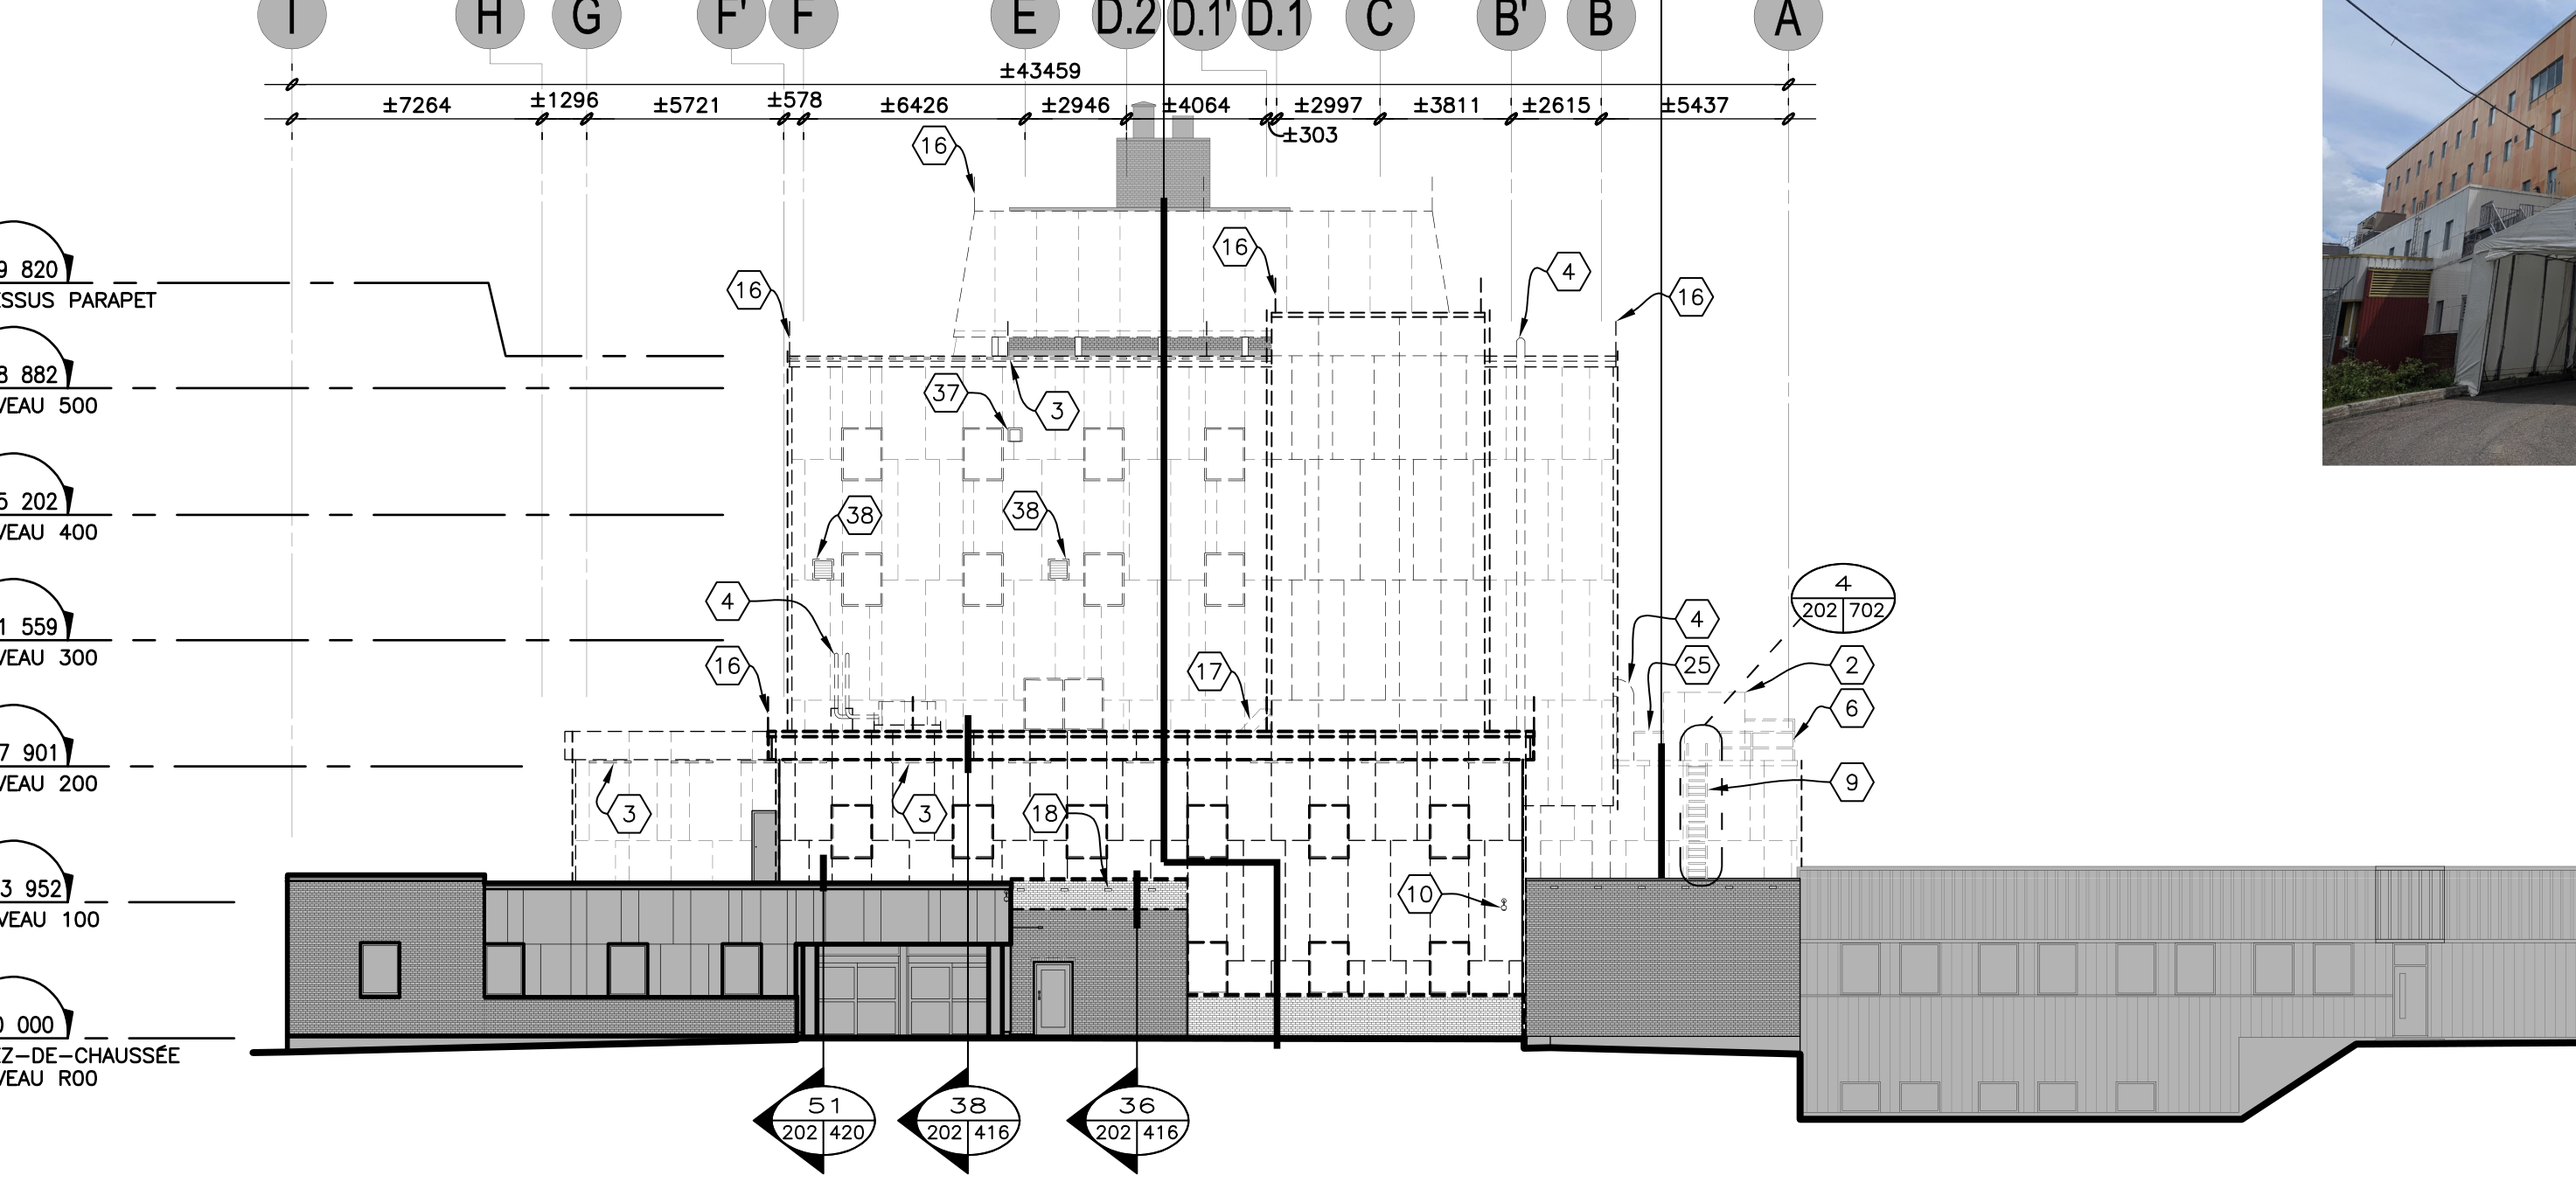
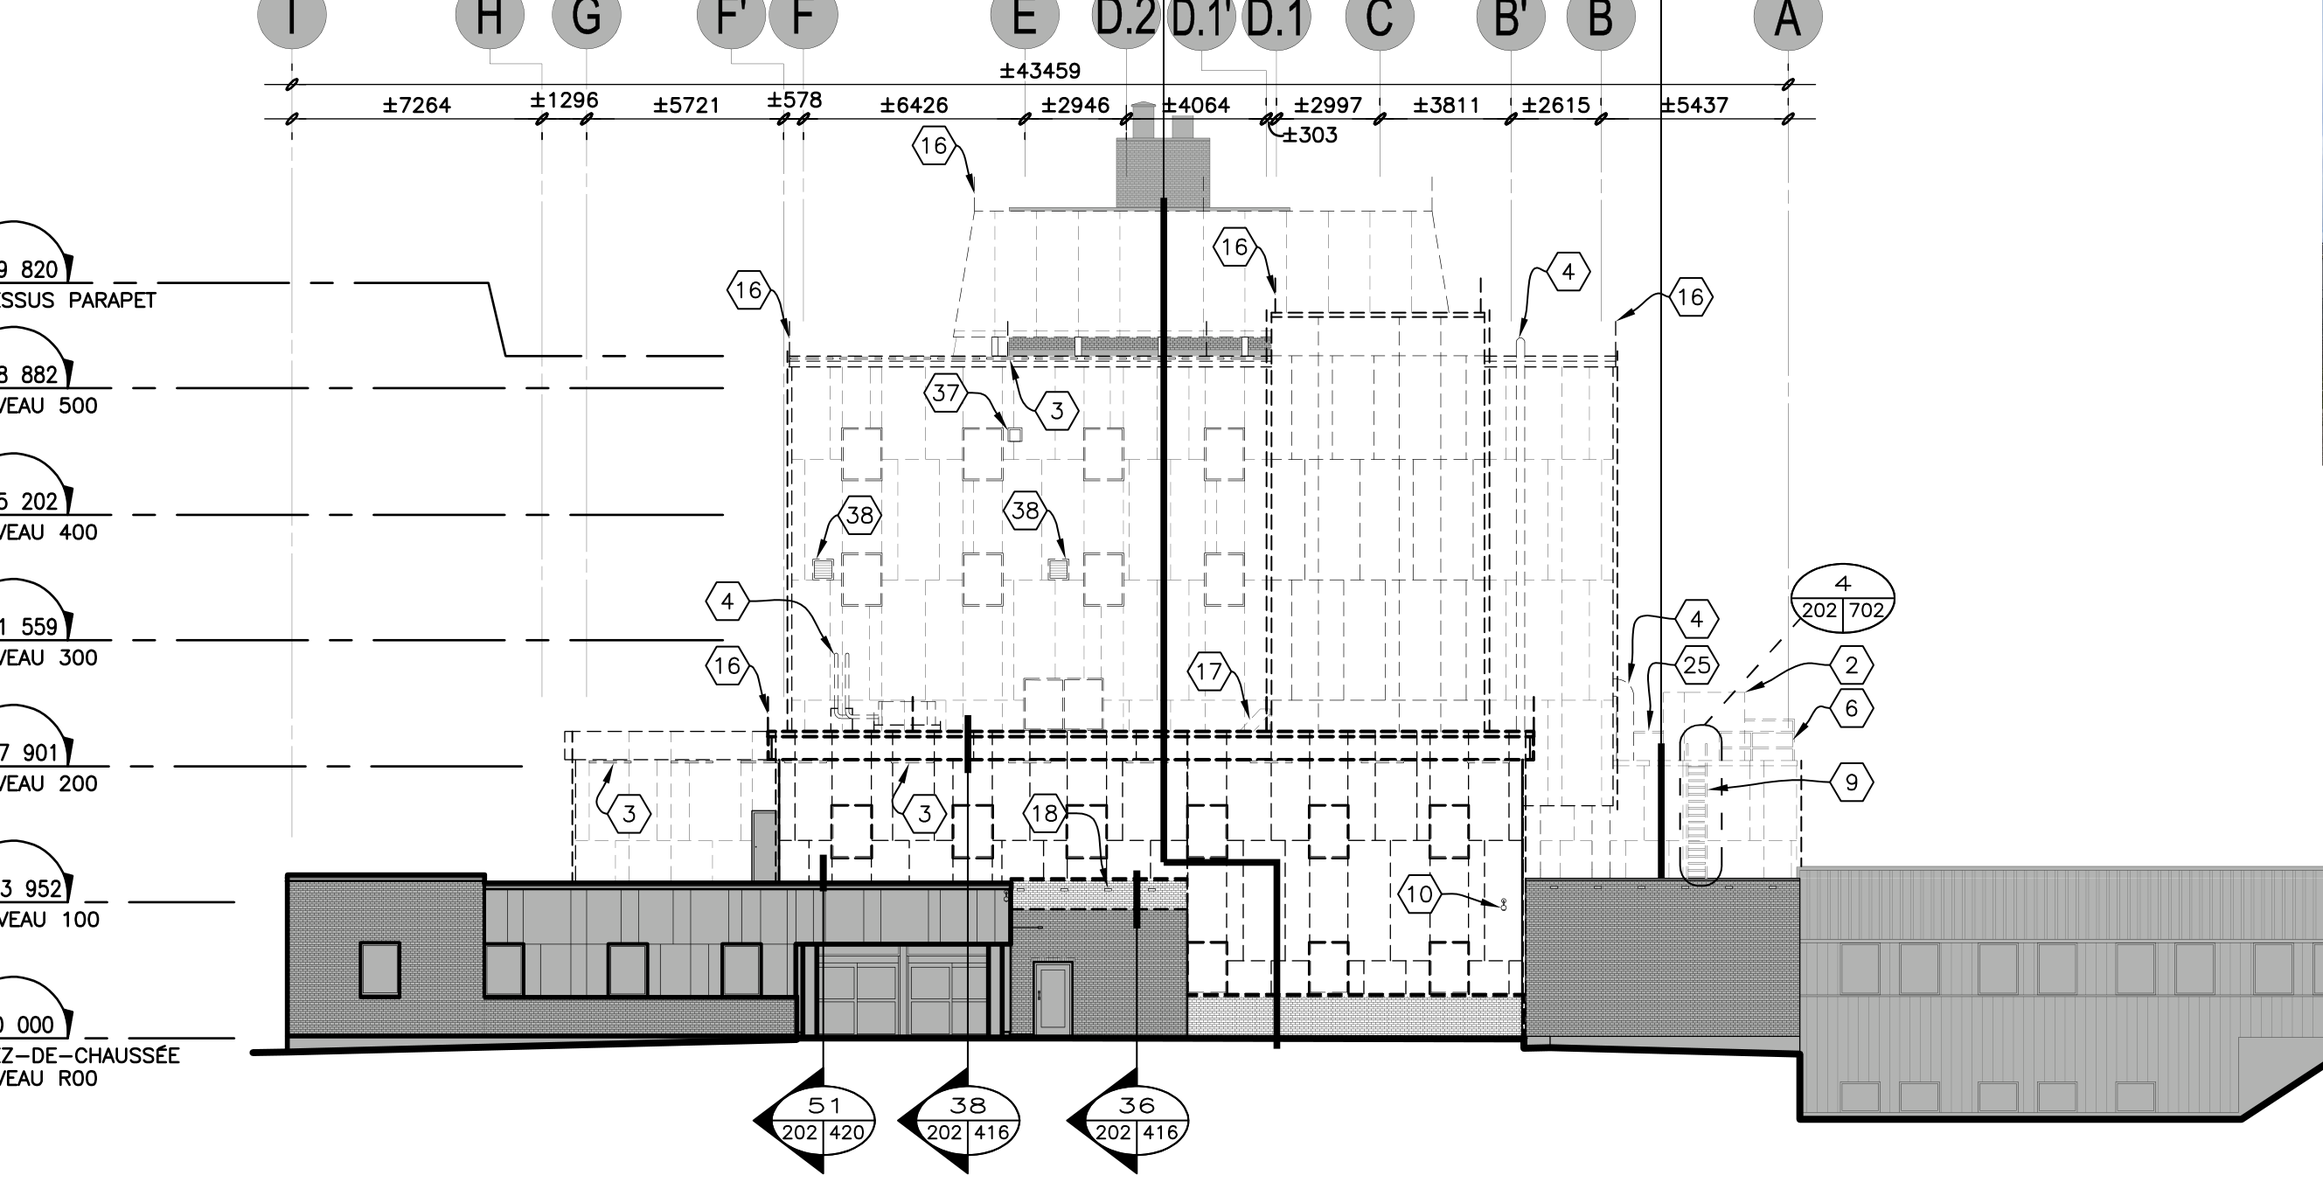
Cadrage de l'élévation est resserré pour exclure la photo du cartouche
Le clip de la feuille 202 s'arrête maintenant au bord du bâtiment (page x 1056
au lieu de 1160), de sorte que la planche ne montre plus la photographie insérée
à droite du dessin. Image de base régénérée en conséquence ; le calage des axes
est inchangé, l'axe I reste à la position svg 120.

Claude-Session: https://claude.ai/code/session_015C4NLq2AzqLAX7gQBC3Prk

diff --git a/phasage/src/elev_geom.py b/phasage/src/elev_geom.py
@@ -89,7 +89,7 @@ SUD = Geom('sud', 'A', '201', 'A201_elev_sud.png', 'num', ('1', 88.0), +1, 437.0
 OUEST = Geom('ouest', 'B', '201', 'A201_elev_ouest.png', 'let', ('A', 268.0), +1, 407.0,
              (380, 1105, 1340, 1600), 'nord', 'sud')
 EST = Geom('est', 'G', '202', 'A202_elev_est.png', 'let', ('I', 120.0), -1, 418.0,
-           (100, 1105, 1160, 1600), 'sud', 'nord')
+           (100, 1105, 1056, 1600), 'sud', 'nord')
 GEOMS = {g.nom: g for g in (NORD, SUD, EST, OUEST)}
 
 # --- états d'un appareil (couleurs du calque) -----------------------------
